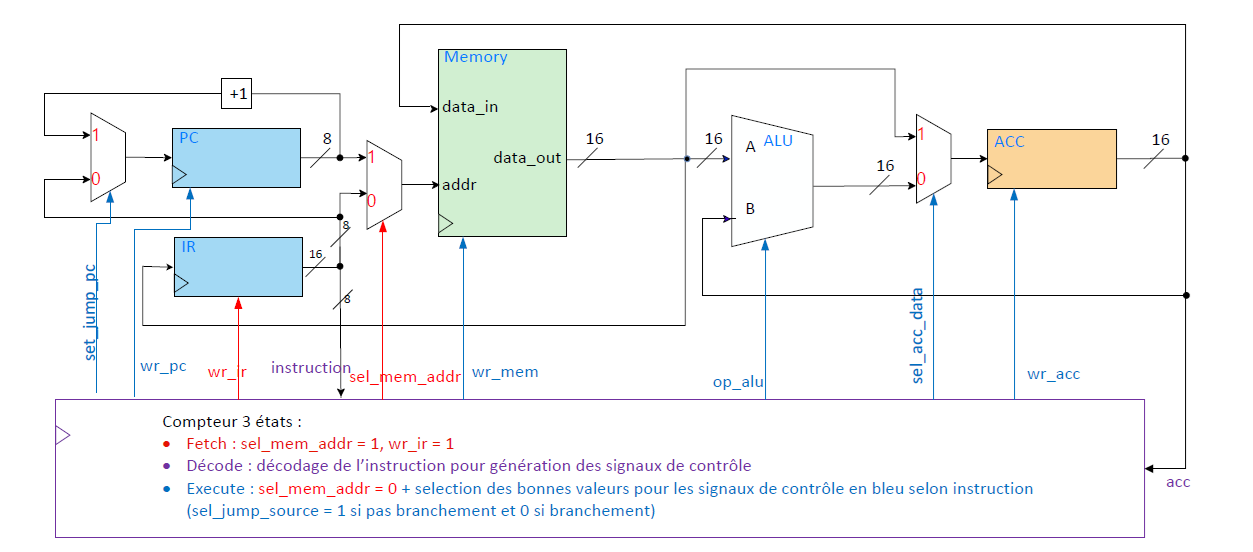
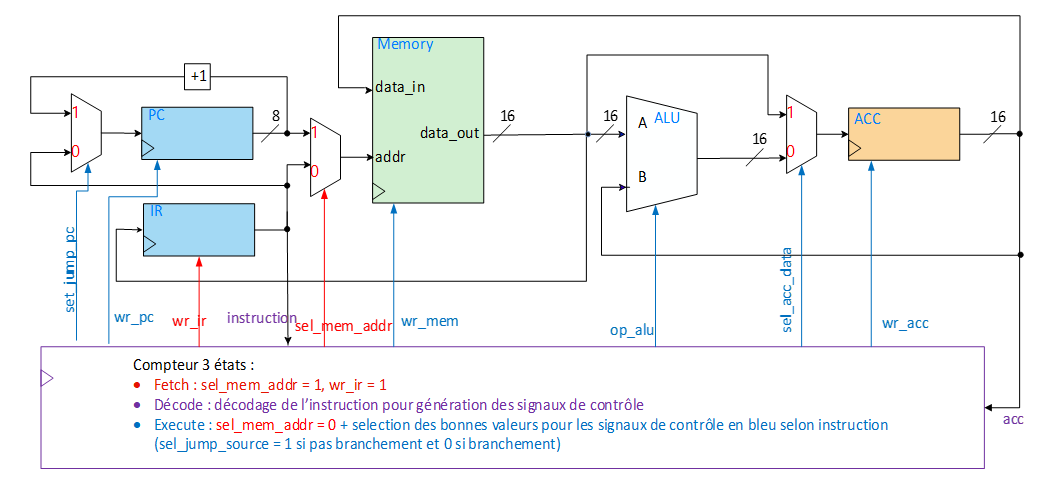
Version 25.2.5 (#102)
* fix(backend): Régler le problème du pc sur le PolyRisc

* fix(backend): Ajout des cas vides au cas où que chisel en ait besoin

* doc(guide): Modification du guide d'utilisation

* doc(release): Ajout du patch note pour la prochaine version

Changed region(s): [[0.0304, 0.0309, 0.9725, 0.9877]]

diff --git a/GuideCodeMachine.md b/GuideCodeMachine.md
@@ -6,8 +6,8 @@
 <h1 style="font-size: 60px;">Guide CodeMachine</h1>
 
 
-**Version 25.2.4**  
-15 août 2025
+**Version 25.2.5**  
+25 septembre 2025
 Geneviève Cyr  
 GIGL | Polytechnique Montréal
 <br><br>
@@ -21,7 +21,20 @@ N.B.	Le masculin est utilisé pour alléger le texte.*
 
 # Installation
 
->**ATTENTION : CodeMachine fonctionne avec Java 17 ou moins!**
+## Installation de Java
+Avant de vous lancer à installer CodeMachine, vous devez vous assurer d'avoir installé **Java Runtime 8 (JRE 8)**.  
+
+👉 Le JRE est suffisant puisqu’il permet d’**exécuter** des applications Java sans avoir besoin des outils de développement.  
+Vous pouvez télécharger la version la plus récente du **Java Runtime** (toutes plateformes) sur le site officiel :  
+[🔗 Télécharger Java Runtime 8](https://www.java.com/en/download/manual.jsp)  
+
+<br>
+
+> ⚠ Si vous tenez à installer le **JDK complet** (qui inclut le compilateur et l’environnement d’exécution), assurez-vous de choisir une **version 17 ou inférieure** (Windows, Linux ou macOS).  
+> Le JDK est nécessaire uniquement si vous comptez développer en Java, et non simplement exécuter CodeMachine.  
+
+<br>
+
 
 ## Pour Windows
 
@@ -31,7 +44,7 @@ N.B.	Le masculin est utilisé pour alléger le texte.*
    <p>
    <img src="guide-codemachine-images/Version.png" width="650">
    </p>
-
+<div style="page-break-after: always;"></div>
 3. Choisir la bonne architecture (celle correspondant à votre ordinateur) et cliquer dessus pour la télécharger
    <p>
    <img src="guide-codemachine-images/architecture_windows.jpg" width="650">
@@ -39,11 +52,12 @@ N.B.	Le masculin est utilisé pour alléger le texte.*
 
 4. Dans téléchargement, double-cliquer pour partir l’installation.
 <br>
+
 5. Cliquer sur Information complémentaires
    <p>
    <img src="guide-codemachine-images/InfoComplement.png"  width="350">
    </p>
-
+<div style="page-break-after: always;"></div>
 6. Choisir exécuter quand même
    <p>
    <img src="guide-codemachine-images/Executer.png"  width="350">
@@ -87,6 +101,21 @@ Sinon, vous pouvez aller **par le CLI**, changer les permissions et partir l’o
 
 *Notez que vous pouvez déplacer le .AppImage à l’endroit que vous préférez pour faciliter son accès.  Cependant, vous devrez, dans tous les cas, permettre son exécution en changeant ses permissions.*
 
+
+<br>
+
+>**ATTENTION : Sur Windows, dans certains installations, il faut parfois partir CodeMachine en mode administrateur pour qu'il compile correctement**
+
+Si vous avez l'erreur suivante au moment de la compilation : 
+<p>
+   <img src="guide-codemachine-images/ExecPasAdmin.jpg" width="650">
+</p>
+Il faut repartir CodeMachine en tant qu'administrateur en utilisant le bouton contextuelle de la souris.
+<p>
+   <img src="guide-codemachine-images/PartirAdmin.png" width="250">
+</p>
+
+
 <div style="page-break-after: always;"></div>
 
 ## Pour MAC
@@ -105,6 +134,8 @@ Sinon, vous pouvez aller **par le CLI**, changer les permissions et partir l’o
    </p>
 
 4. Dans téléchargement, double-cliquer pour partir l’installation et compléter une installation selon le format dmg
+ 
+<div style="page-break-after: always;"></div>
 
 5. Enlever les drapeaux de quarantaine mis par Apple
    <p>
@@ -113,21 +144,21 @@ Sinon, vous pouvez aller **par le CLI**, changer les permissions et partir l’o
 
 6. Trouver l'application dans le Finder et afficher le contenu du paquet
    <p>
-   <img src="guide-codemachine-images/paquet-mac.jpg" width="650">
+   <img src="guide-codemachine-images/paquet-mac.jpg" width="250">
    </p>
 
 7. Naviguer Contents > MacOS
    <p>
-   <img src="guide-codemachine-images/contents-mac.jpg" width="650">
+   <img src="guide-codemachine-images/contents-mac.jpg" width="150">
    </p>
 ---
    <p>
-   <img src="guide-codemachine-images/chemin-exec.jpg" width="650">
+   <img src="guide-codemachine-images/chemin-exec.jpg" width="250">
    </p>
 
 8. Double-cliquer sur l'exécutable nommé CodeMachine pour le partir en mode administrateur, créer un alias pour mettre sur votre bureau est fortement recommandé
    <p>
-   <img src="guide-codemachine-images/alias-mac.jpg" width="650">
+   <img src="guide-codemachine-images/alias-mac.jpg" width="250">
    </p>
 
 <div style="page-break-after: always;"></div>
@@ -171,7 +202,7 @@ Trois architectures sont disponibles dans CodeMachine : Accumulateur, Accumulat
 
 ### Affichage du nombre de cycles
 
-- CodeMachine est limité à 2024 cycles au total.  Tout code qui donnera plus de 2024 cycles, seulement les 2024 premiers cycles seront exécutés.
+>**ATTENTION : CodeMachine est limité à 1024 cycles au total.  Tout code qui donnera plus de 1024 cycles, seulement les 1024 premiers cycles seront exécutés.**
 
 - Les cycles sont comptés à partir de 0, donc le nombre total de cycle (/nb) sera toujours égale au nombre de cycle -1.  Pour toutes les architecture, chaque instruction prend 3 cycles (incluant l’instruction « nop ».  Cependant, l’instruction « stop », n’a qu’un « fetch », donc un seul cycle.  Ainsi, le nombre de cycle total inscrit après le « / » sera TOUJOURS un multiple de 3 qui suit l’équation suivante :
 
@@ -237,12 +268,13 @@ Trois architectures sont disponibles dans CodeMachine : Accumulateur, Accumulat
    <img src="guide-codemachine-images/ModeVisuel.png" width="600">
    </p>
 
-<div style="page-break-after: always;"></div>
 
 - En mode « programmeur », vous verrez le contenu des registres, sans voir le circuit :
    <p>
    <img src="guide-codemachine-images/ModeProgrammeur.png" width="400">
    </p>
+
+<div style="page-break-after: always;"></div>
 
 ## Affichage de la mémoire
 

diff --git a/release-notes.md b/release-notes.md
@@ -1,6 +1,5 @@
-# CodeMachine v25.2.4
+# CodeMachine v25.2.5
 
-- Le pré-compilateur empêche maintenant les étiquettes en double
-- Le code compilé est enlevé lorsque le code source est modifié
-- Le pré-compilateur permets maintenant l'utilisation de donnée sans étiquette dans la section .data
+- Régler le problème de PC sur le PolyRisc
+- Modifier la documentation
 
